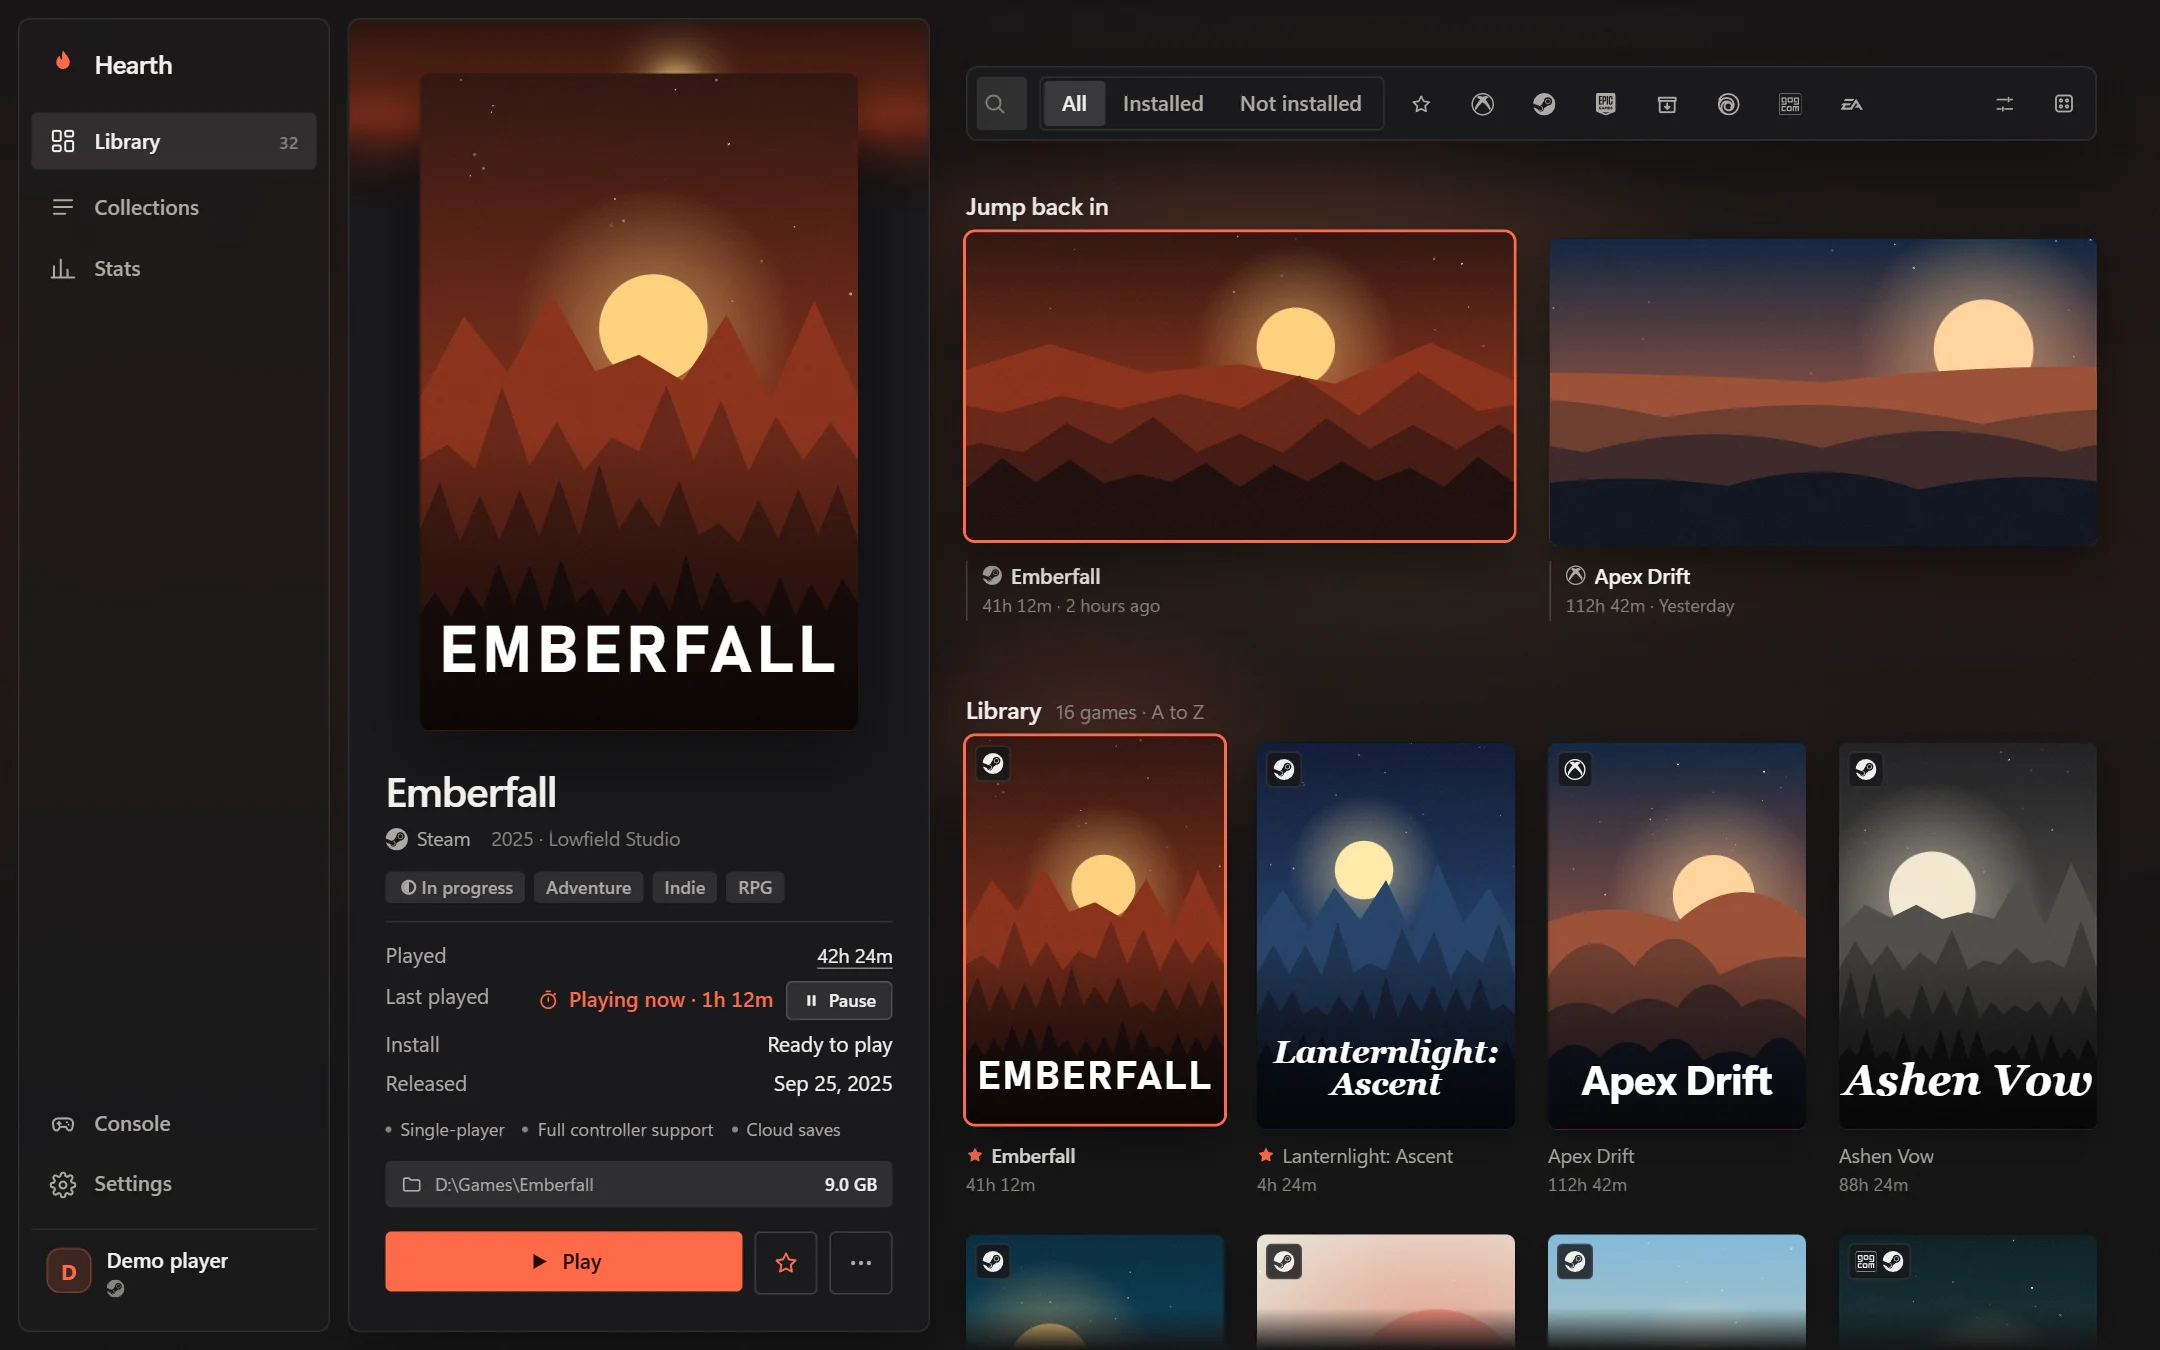
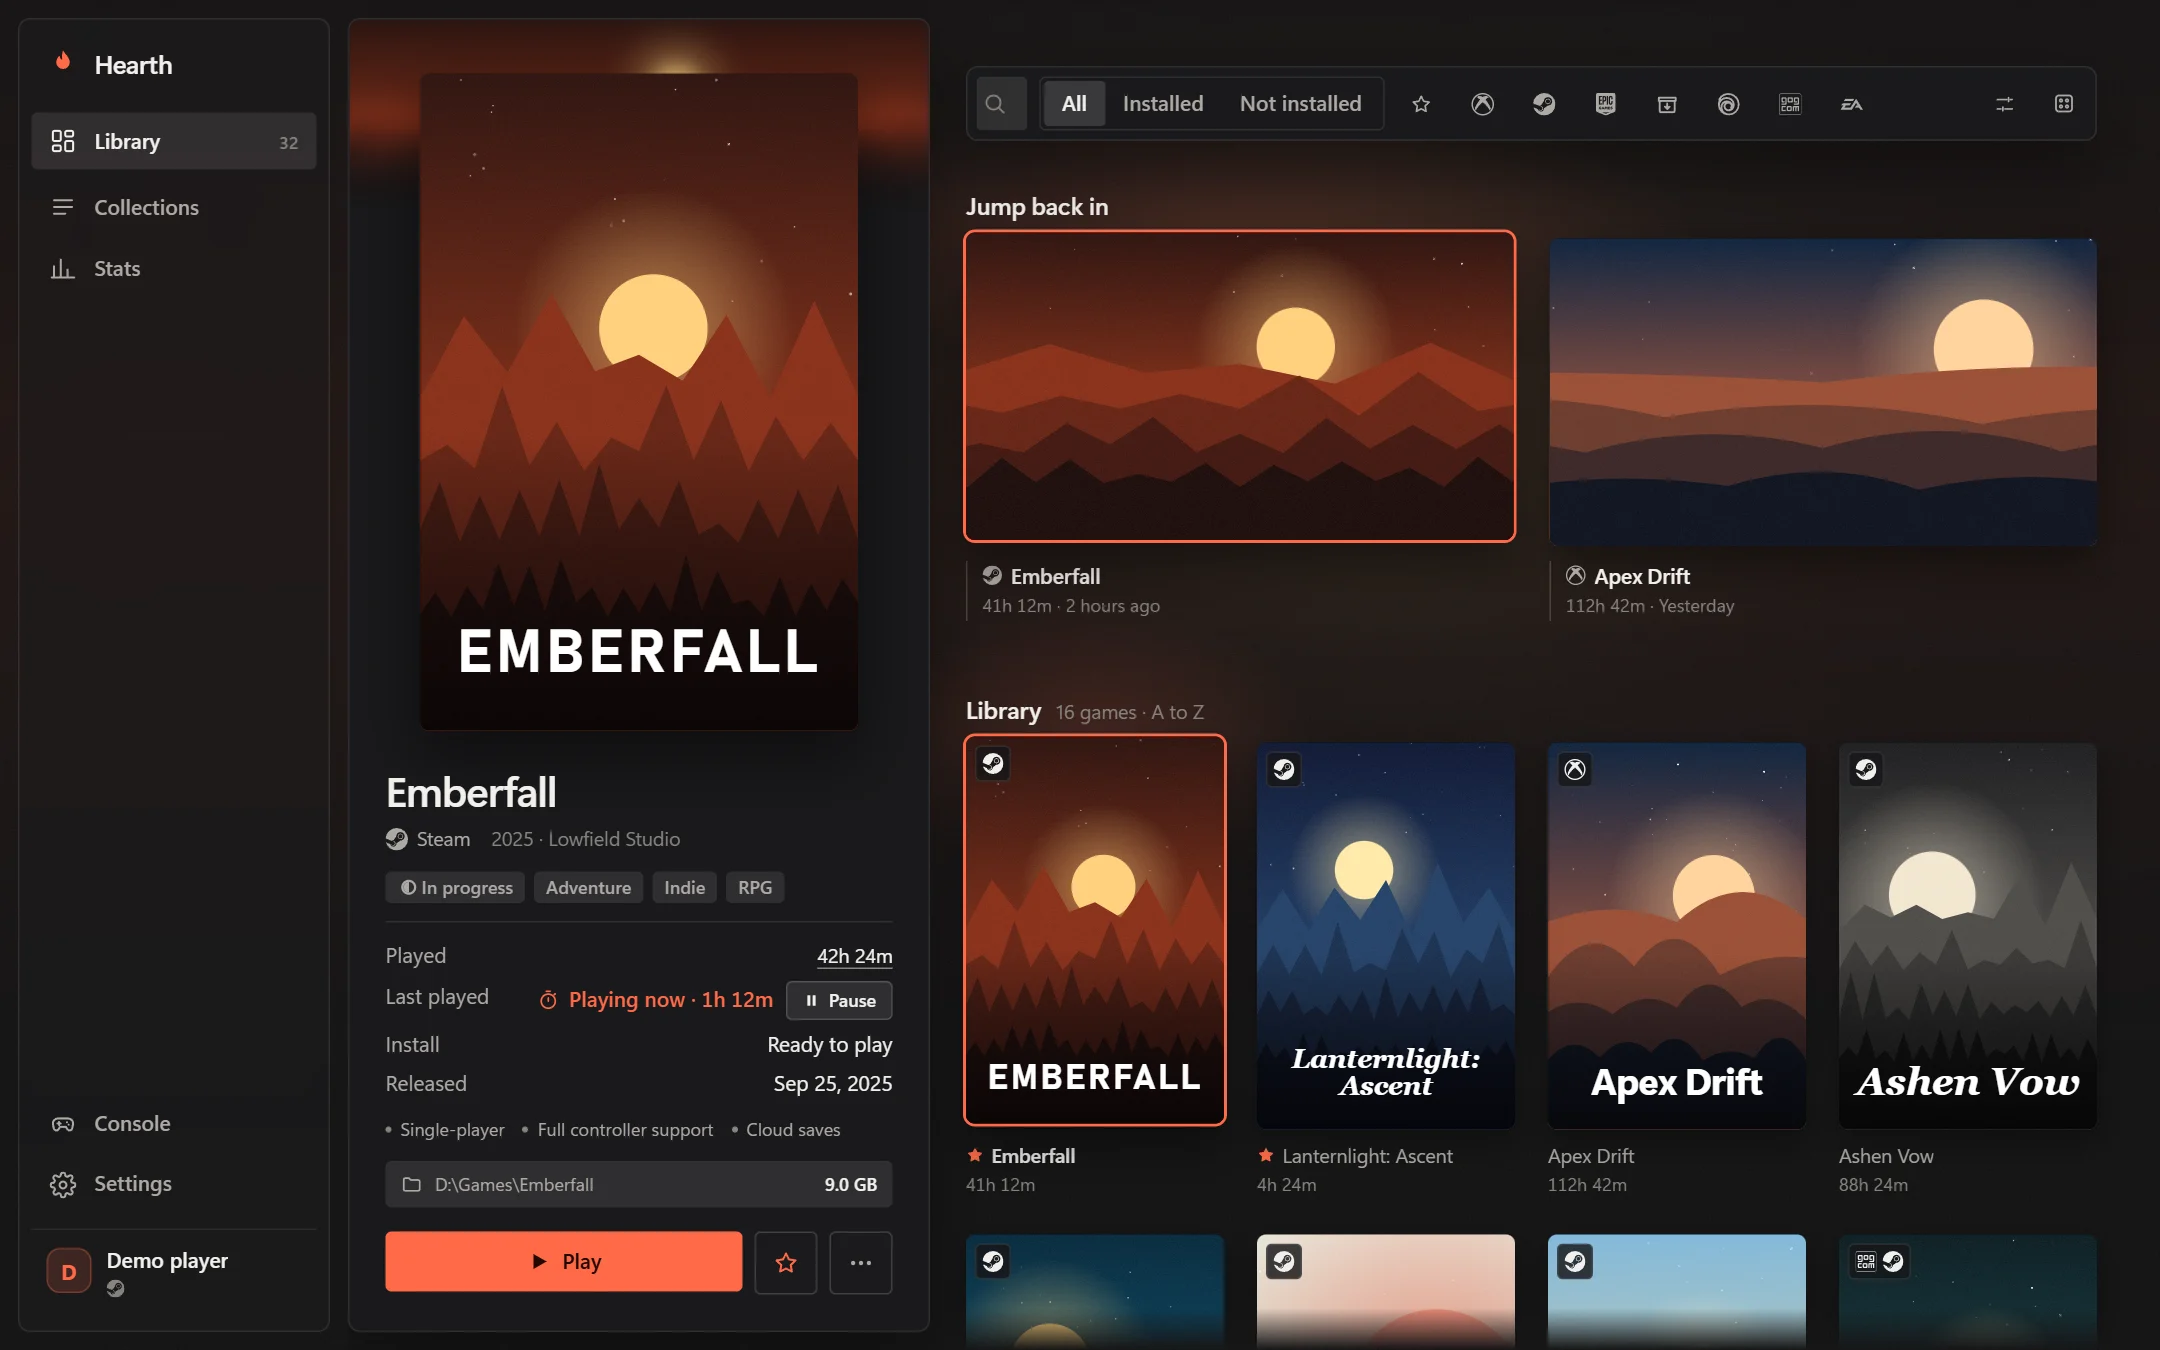
README: dark screenshots in four tones, Console in Harbor, settings in words
The opening shot is dark only, the way Hearth is meant to be used. The
cover wall and list appear in Harbor, Rosewood, Ember and Gallery; the
Settings screenshot gives way to a short list of what can be changed.
Demo logos no longer clip long or two-line titles.

diff --git a/app/src/lib/showcase.ts b/app/src/lib/showcase.ts
@@ -134,13 +134,15 @@ const FONTS: Record<Face, string> = {
 };
 
 /** The title set like a game's logo: one or two lines, fitted to `w`. */
-function titleText(look: Look, x: number, y: number, w: number, anchor: "middle" | "start", fill = "#fff"): string {
+function titleText(look: Look, x: number, y: number, w: number, anchor: "middle" | "start", maxH = Infinity, fill = "#fff"): string {
   const upper = look.face === "wide";
   const text = upper ? look.title.toUpperCase() : look.title;
   const words = text.split(" ");
   const lines = text.length > 13 && words.length > 1 ? [words.slice(0, Math.ceil(words.length / 2)).join(" "), words.slice(Math.ceil(words.length / 2)).join(" ")] : [text];
   const longest = Math.max(...lines.map((l) => l.length));
-  const size = Math.min(w / (longest * (upper ? 0.62 : 0.52)), w * 0.2);
+  // Average glyph width per font size, a little generous so nothing clips.
+  const perChar = { wide: 0.68, serif: 0.62, sans: 0.58 }[look.face];
+  const size = Math.min(w / (longest * perChar), w * 0.2, maxH / (lines.length * 1.05));
   const weight = look.face === "serif" ? 700 : 800;
   const spacing = upper ? size * 0.06 : look.face === "sans" ? -size * 0.02 : 0;
   const style = look.face === "serif" ? " font-style='italic'" : "";
@@ -158,6 +160,6 @@ export function showcaseArt(i: number): { title: string; cover: string; hero: st
     `<svg xmlns='http://www.w3.org/2000/svg' viewBox='0 0 600 900'>${scene(look, 600, 900, i + 1)}` +
     `<defs>${shade}</defs><rect width='600' height='900' fill='url(#b)'/>${titleText(look, 300, 820, 500, "middle")}</svg>`;
   const hero = `<svg xmlns='http://www.w3.org/2000/svg' viewBox='0 0 1920 620' preserveAspectRatio='xMidYMid slice'>${scene(look, 1920, 620, i + 101)}</svg>`;
-  const logo = `<svg xmlns='http://www.w3.org/2000/svg' viewBox='0 0 900 260'>${titleText(look, 0, 220, 880, "start")}</svg>`;
+  const logo = `<svg xmlns='http://www.w3.org/2000/svg' viewBox='0 0 900 260'>${titleText(look, 0, 220, 880, "start", 230)}</svg>`;
   return { title: look.title, cover: uri(cover), hero: uri(hero), logo: uri(logo) };
 }

diff --git a/README.md b/README.md
@@ -27,10 +27,7 @@
 
 Hearth gathers your games from every store into one library, starts each one through its own store, and sits in the tray timing what you play, however you launch it. No accounts, no themes to break, no clutter: big art, quick search, and a full-screen Console mode for the controller.
 
-<picture>
-  <source media="(prefers-color-scheme: light)" srcset="docs/screenshots/library-light.webp">
-  <img src="docs/screenshots/library.webp" alt="Hearth's library: a wall of covers beside the selected game's panel, with its playtime, a Pause button for the game being timed, and Jump back in on top">
-</picture>
+<img src="docs/screenshots/library.webp" alt="Hearth's library: a wall of covers beside the selected game's panel, with its playtime, a Pause button for the game being timed, and Jump back in on top">
 
 <p align="center"><sub>The games in these screenshots are invented, drawn for Hearth's demo library.</sub></p>
 
@@ -71,13 +68,17 @@ Hearth needs Windows 10 or 11 (64-bit) and Microsoft WebView2, which already shi
 
 - **Collections**, plus shelves that fill themselves: Favourites, In progress, Backlog, Completed, and browse by series, developer or publisher.
 - **Sort and filter** by store, genre, install state, size, last played or most played. Search starts as you type.
-- **Two layouts:** a cover wall, or a list beside a detail page with the game's art.
 - **Artwork** from the stores and, with a free key, SteamGridDB. Pick a different cover for any game.
 - **Ways to play:** start a game through a mod loader, an offline server or a tool, with its own arguments.
 - **Storage:** what each installed game takes on disk, and uninstalling through its store (or to the Recycle Bin for folder games).
 
+A cover wall or a list beside the game's art, in seven tones, dark or light:
+
 <p align="center">
-  <img src="docs/screenshots/list.webp" alt="The list layout: titles grouped by install state beside the selected game's detail page" width="900">
+  <img src="docs/screenshots/list-harbor.webp" alt="The list layout in the Harbor tone: titles grouped by install state beside Salt & Sail's detail page" width="49%">
+  <img src="docs/screenshots/list-rosewood.webp" alt="The list layout in the Rosewood tone, with Harvest Hollow selected" width="49%">
+  <img src="docs/screenshots/grid-ember.webp" alt="The cover wall in the Ember tone, with Lanternlight: Ascent in the game panel" width="49%">
+  <img src="docs/screenshots/grid-gallery.webp" alt="The cover wall in the Gallery tone, with Deep Blue Diner in the game panel" width="49%">
 </p>
 
 ### Console mode, for the couch
@@ -87,22 +88,28 @@ Press **Start** on a controller, from anywhere in Hearth, and it becomes a full-
 The whole app works with a controller, the keyboard or the mouse.
 
 <p align="center">
-  <img src="docs/screenshots/console.webp" alt="Console mode: a row of large covers with shelves above and the selected game's art filling the screen" width="900">
+  <img src="docs/screenshots/console-harbor.webp" alt="Console mode in the Harbor tone: shelves along the top, a row of large covers, and the selected game's art filling the screen" width="900">
 </p>
 
 ### Part of Windows
 
 - **Lives in the tray.** Close the window and Hearth keeps timing. Right-click the tray icon for what's playing now (with Pause and Stop), your recent games, and Open or Quit.
 - **Taskbar jump list.** Right-click Hearth on the taskbar to start one of your last five games, or open Console mode.
-- **Starts with Windows** if you want, straight to the tray.
-- **Looks like Windows 11:** Mica, Snap Layouts, light or dark (or follow Windows), and seven tones with your own highlight colour.
-- **Backups** of your library, playtime and settings, by hand or automatically to a folder you choose.
+- **Looks like Windows 11:** Mica, Snap Layouts, and light or dark that can follow Windows.
 
 <p align="center">
-  <img src="docs/screenshots/tray.webp" alt="The tray menu: the game being timed with Pause and Stop, recent games, Open Hearth and Quit Hearth" width="300">
-  &nbsp;&nbsp;
-  <img src="docs/screenshots/settings.webp" alt="Settings: the stores Hearth is signed in to, and game folders" width="560">
+  <img src="docs/screenshots/tray.webp" alt="The tray menu: the game being timed with Pause and Stop, recent games, Open Hearth and Quit Hearth" width="320">
 </p>
+
+### Make it yours
+
+Everything lives in **Settings**, and every option has a sensible default:
+
+- **Stores and folders:** sign in to or out of each store, and add the folders where your other games live.
+- **Playtime:** keep idle time apart or count it as play, and start Hearth with Windows, straight to the tray.
+- **Appearance:** seven tones, dark, light or Windows' mode, your own highlight colour, cover size, store icons on covers, Metacritic scores, and the "Jump back in" row.
+- **Library:** your hidden games, the name Hearth greets you with, art from SteamGridDB, and Console mode full screen or windowed.
+- **Backup and updates:** back up and restore your library, playtime and settings, by hand or automatically to a folder; see what each update changed.
 
 ## Your data stays on your PC
 
